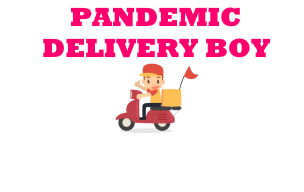
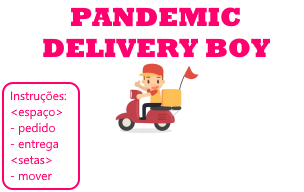
Inclusão das instruções

diff --git a/game.py b/game.py
@@ -236,11 +236,9 @@ def main():
 					keys[2] = True
 				if event.key == K_DOWN:
 					keys[3] = True
-				if event.key == K_1:
-					print("debug 1")
+				if event.key == K_SPACE:
 					keys[4] = True
 				if event.key == K_RETURN:
-					print("debug 2")
 					keys[5] = True
 
 			# KEYBOARD INPUT (RELEASE)
@@ -253,7 +251,7 @@ def main():
 					keys[2] = False
 				if event.key == K_DOWN:
 					keys[3] = False
-				if event.key == K_1:
+				if event.key == K_SPACE:
 					keys[4] = False
 				if event.key == K_RETURN:
 					keys[5] = False
@@ -278,7 +276,7 @@ def menu_loop():
 	display.fill(AQUA_BLUE_COLOR)
 	display.blit(menu_img, (0, 0))
 
-	textRegion = font.render('pressione  ENTER para iniciar', True, BLACK_COLOR, WHITE_COLOR)
+	textRegion = font.render('pressione  ENTER  para iniciar', True, BLACK_COLOR, WHITE_COLOR)
 	display.blit(textRegion, (75, 160))
 
 	window_surface.blit(pygame.transform.scale(display, (WINDOW_WIDTH_SCREEN, WINDOW_HEIGHT_SCREEN)),(0,0))
@@ -326,7 +324,6 @@ def game_main_loop():
 	if keys[4]:
 		if current_map_region == 4:
 			if player.test_collision(people1):
-				print("colisao: people1")
 				if player.get_pedido() == 0:
 					player.set_pedido(1)
 
@@ -335,7 +332,6 @@ def game_main_loop():
 					player.add_score()
 
 			if player.test_collision(people2):
-				print("colisao: people2")
 				if player.get_pedido() == 0:
 					player.set_pedido(1)
 
@@ -344,7 +340,6 @@ def game_main_loop():
 					player.add_score()
 
 			if player.test_collision(people3):
-				print("colisao: people3")
 				if player.get_pedido() == 0:
 					player.set_pedido(1)
 
@@ -354,12 +349,10 @@ def game_main_loop():
 
 		elif current_map_region == 1:
 			if player.test_collision(people4):
-				print("colisao: people4")
 				if player.get_pedido() == 1:
 					player.set_pedido(2)
 
 			if player.test_collision(people5):
-				print("colisao: people5")
 				if player.get_pedido() == 1:
 					player.set_pedido(2)
 
